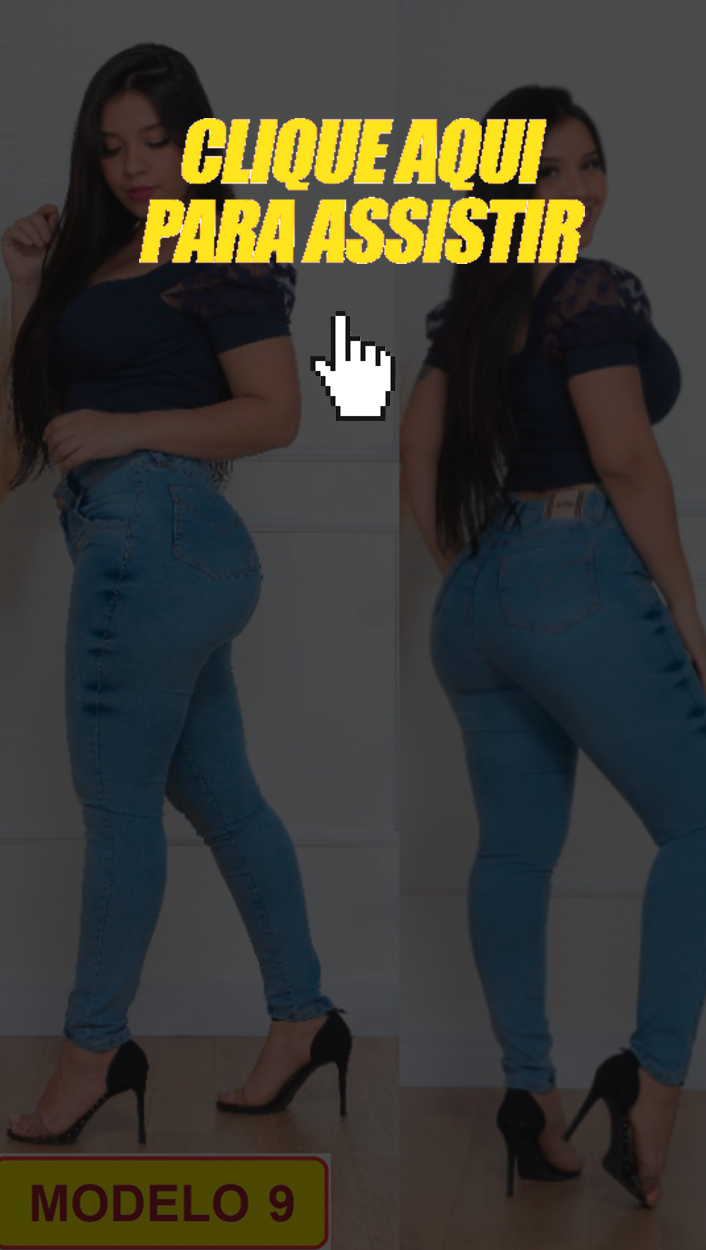
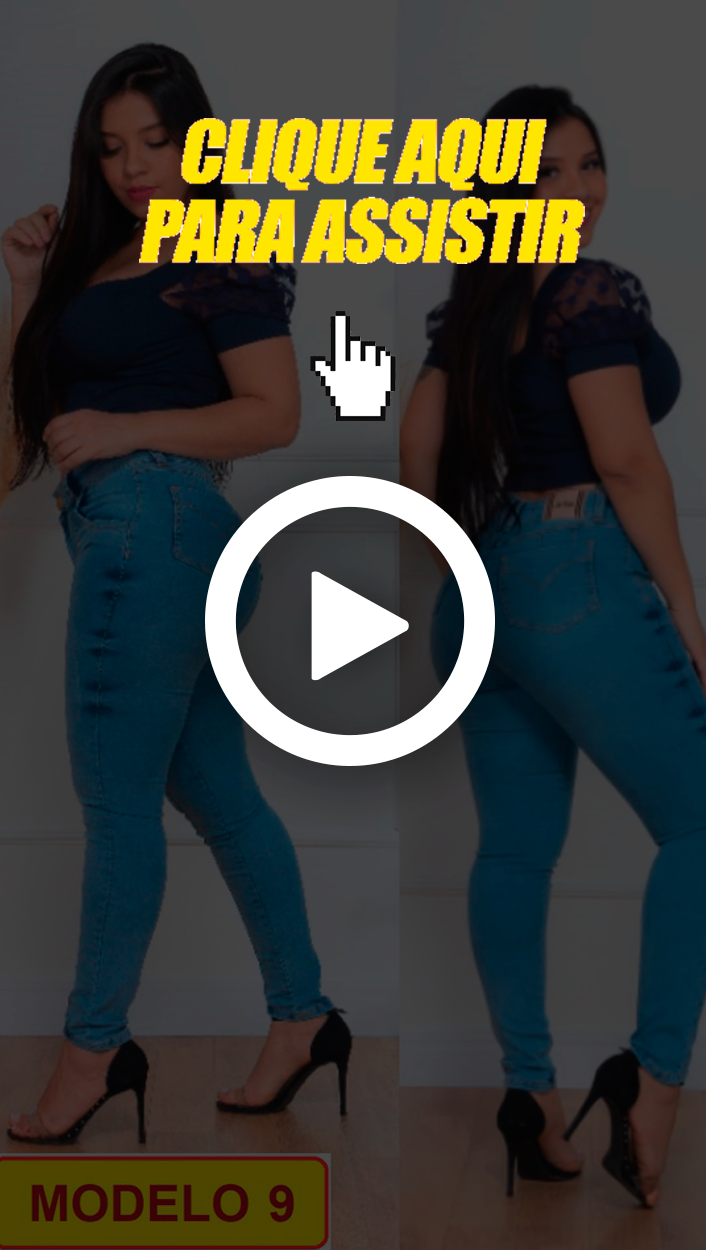
att

diff --git a/index.html b/index.html
@@ -116,6 +116,14 @@
         <div id="parte7" style="padding-bottom: 5px;">
             <img src="/images/antes_depois.png" class="antes_depois" alt="O antes e depois vai te deixar impressionada">
         </div>
+        <div id="parte9" style="margin: 25px; position: relative">
+            <div id="parte9_"></div>
+            <img src="/images/vsl.png" class="vsl_imagem" alt="Veja porque nossa calcinha é a melhor">
+            <video controls id="video" poster="/images/thumpnail.png" style="width: 100%; margin-top: 25px;">
+                <source src="/videos/vsl.mp4" type="video/mp4">
+                Seu navegador não suporta o elemento de vídeo.
+            </video>
+        </div>
         <img src="/images/black.gif" class="promocao_black" style="margin-bottom: -5px;" />
         <div id="parte8">
 <!--            <div class="box-produto" style="margin-top: 20px;margin-bottom: 20px;">-->
@@ -170,14 +178,6 @@
                 <p id="cron-2" style="font-size: 25px; line-height: 0px; transform: scale(2) translateX(25%)"><span id="horas">00</span>:<span id="minutos"></span>:<span id="segundos"></span></p>
             </div>
 
-        </div>
-        <div id="parte9" style="margin: 25px; position: relative">
-            <div id="parte9_"></div>
-            <img src="/images/vsl.png" class="vsl_imagem" alt="Veja porque nossa calcinha é a melhor">
-            <video controls id="video" poster="/images/thumpnail.png" style="width: 100%; margin-top: 25px;">
-                <source src="/videos/vsl.mp4" type="video/mp4">
-                Seu navegador não suporta o elemento de vídeo.
-            </video>
         </div>
         <div id="parte10" style="margin: 25px;">
             <img src="/images/perguntas_frequentes.png" class="perguntas_frequentes" alt="Perguntas frequentes">
@@ -274,7 +274,7 @@
     <div class="dark" aa="aa">
         <div class="card" style="max-width: 600px;">
             <div style="padding: 20px">
-                <p style="margin: 0px; font-size: 12px; ">Qual tamanho que você quer vestir ?</p>
+                <p style="margin: 0px; font-size: 12px; ">Qual tamanho você veste ?</p>
 <!--                <div style="display: flex; justify-content: space-around; margin-top: 20px;">-->
 <!--                    <div class="produto-choose" data-cor="berge">-->
 <!--                        <img src="/images/produto.png" class="produto-choose-img" alt="Produto branco">-->
